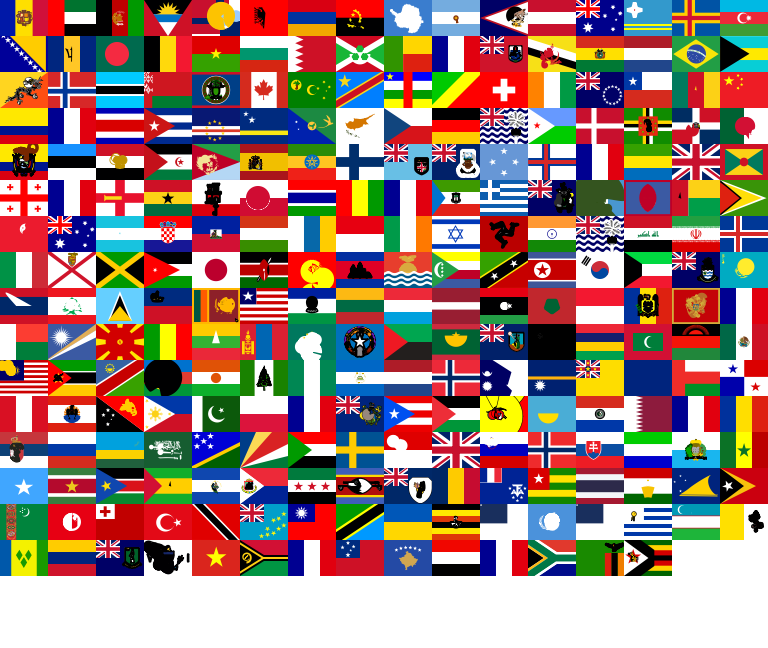
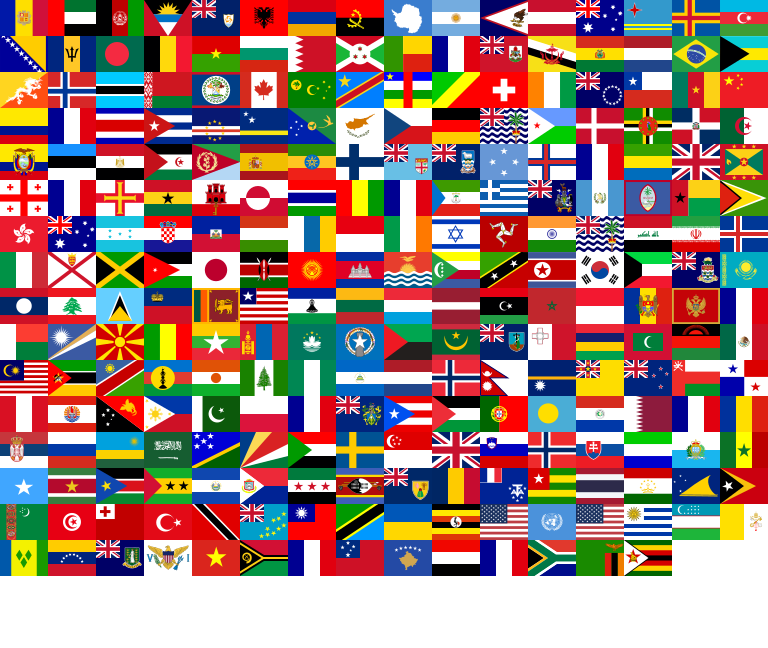
Share picture: flags drawn by a full SVG renderer, so every country's flag shows right (#711)

diff --git a/server/internal/cards/flags/gen.go b/server/internal/cards/flags/gen.go
@@ -5,9 +5,11 @@
 //
 //	go run flags/gen.go <flag-icons>/flags/4x3 flags
 //
-// Every flag is 48 × 36 on a grid of 16 columns; flags.txt lists the codes in
-// grid order. Only codes the report knows (the keys of the API's country
-// table, passed in codes.txt next to this file) are drawn.
+// Each flag is rendered by rsvg-convert (brew install librsvg), which reads
+// clip paths, masks and transforms in full, so flags with emblems come out
+// right. Every flag is 48 × 36 on a grid of 16 columns; flags.txt lists the
+// codes in grid order. Only codes the report knows (the keys of the API's
+// country table, passed in codes.txt next to this file) are drawn.
 package main
 
 import (
@@ -16,65 +18,17 @@ import (
 	"image"
 	"image/draw"
 	"image/png"
-	"math"
 	"os"
+	"os/exec"
 	"path/filepath"
-	"regexp"
 	"strconv"
 	"strings"
-
-	"github.com/srwiley/oksvg"
-	"github.com/srwiley/rasterx"
 )
 
 const (
 	fw, fh = 48, 36
 	cols   = 16
 )
-
-var (
-	clip      = regexp.MustCompile(` clip-path="[^"]*"`)
-	transform = regexp.MustCompile(`transform="([^"]*)"`)
-	call      = regexp.MustCompile(`(\w+)\(([^)]*)\)`)
-)
-
-// matrix rewrites a transform attribute as one matrix with plain numbers: the
-// rasteriser cannot read a number that starts with a dot, or a scale or a
-// translate with one argument.
-func matrix(attr []byte) []byte {
-	m := [6]float64{1, 0, 0, 1, 0, 0}
-	for _, c := range call.FindAllStringSubmatch(string(attr), -1) {
-		var a []float64
-		for _, f := range strings.FieldsFunc(c[2], func(r rune) bool { return r == ' ' || r == ',' }) {
-			v, _ := strconv.ParseFloat(f, 64)
-			a = append(a, v)
-		}
-		for len(a) < 6 {
-			a = append(a, 0)
-		}
-		n := [6]float64{1, 0, 0, 1, 0, 0}
-		switch c[1] {
-		case "translate":
-			n[4], n[5] = a[0], a[1]
-		case "scale":
-			n[0], n[3] = a[0], a[1]
-			if !strings.ContainsAny(strings.TrimSpace(c[2]), " ,") {
-				n[3] = a[0]
-			}
-		case "rotate":
-			sin, cos := math.Sincos(a[0] * math.Pi / 180)
-			n = [6]float64{cos, sin, -sin, cos, a[1] - a[1]*cos + a[2]*sin, a[2] - a[1]*sin - a[2]*cos}
-		case "matrix":
-			copy(n[:], a)
-		}
-		m = [6]float64{
-			m[0]*n[0] + m[2]*n[1], m[1]*n[0] + m[3]*n[1],
-			m[0]*n[2] + m[2]*n[3], m[1]*n[2] + m[3]*n[3],
-			m[0]*n[4] + m[2]*n[5] + m[4], m[1]*n[4] + m[3]*n[5] + m[5],
-		}
-	}
-	return []byte(fmt.Sprintf(`transform="matrix(%.6f %.6f %.6f %.6f %.4f %.4f)"`, m[0], m[1], m[2], m[3], m[4], m[5]))
-}
 
 func main() {
 	src, out := os.Args[1], os.Args[2]
@@ -85,22 +39,16 @@ func main() {
 	sheet := image.NewRGBA(image.Rect(0, 0, cols*fw, rows*fh))
 	var kept []string
 	for _, c := range codes {
-		svg, err := os.ReadFile(filepath.Join(src, strings.ToLower(c)+".svg"))
-		if err != nil {
+		path := filepath.Join(src, strings.ToLower(c)+".svg")
+		if _, err := os.Stat(path); err != nil {
 			continue
 		}
-		// The rasteriser has no clipping: the clip only trims what the tile cuts off anyway.
-		svg = clip.ReplaceAll(svg, nil)
-		svg = transform.ReplaceAllFunc(svg, matrix)
-		icon, err := oksvg.ReadIconStream(bytes.NewReader(svg), oksvg.IgnoreErrorMode)
-		if err != nil {
-			continue
-		}
+		pngBytes, err := exec.Command("rsvg-convert", "-w", strconv.Itoa(fw), "-h", strconv.Itoa(fh), path).Output()
+		check(err)
+		tile, err := png.Decode(bytes.NewReader(pngBytes))
+		check(err)
 		i := len(kept)
-		tile := image.NewRGBA(image.Rect(0, 0, fw, fh))
-		icon.SetTarget(0, 0, fw, fh)
-		icon.Draw(rasterx.NewDasher(fw, fh, rasterx.NewScannerGV(fw, fh, tile, tile.Bounds())), 1)
-		draw.Draw(sheet, image.Rect(i%cols*fw, i/cols*fh, i%cols*fw+fw, i/cols*fh+fh), tile, image.Point{}, draw.Src)
+		draw.Draw(sheet, image.Rect(i%cols*fw, i/cols*fh, i%cols*fw+fw, i/cols*fh+fh), tile, tile.Bounds().Min, draw.Src)
 		kept = append(kept, c)
 	}
 	var b bytes.Buffer

diff --git a/changes/share-flags-render.md b/changes/share-flags-render.md
@@ -1,0 +1,1 @@
+- Share picture: every country's flag now draws correctly (some showed as blobs).
